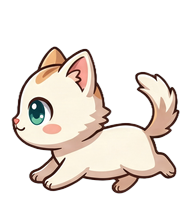
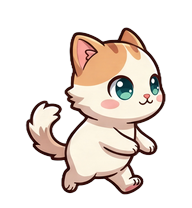
fix(anime-cat-pet): 跑步動畫重做 —— 由「縮細 12%」改成同企立完全同大
新嘅 check_atlas.py 由圖集反推每行 cap，揪出貓貓 run-right / run-left
係 0.89 / 0.88 —— 即係跑步嘅貓比企立嘅貓細 11–12%，而官方 validator
一直報 ok:true / 0 warnings（親眼睇 preview 確認：跑步貓嘅頭明顯細咗）。

三次嘗試：
1. 收尾巴 → 仍然闊（壓低身體嗰兩格 w/h 1.19–1.21），cap 0.89
2. 加「最低位都唔好拉開」 → cap 0.94，仍然唔夠
3. 改用直立跳躍式（head 喺 hip 正上方、前後爪都收起）→ w/h 0.84–0.86，
   cap 1.00，10 行全部 h=168-168

驗證
- 官方 validator：ok:true / 1536x2288 / 73 frames / warnings []
- check_atlas：OK（版面、cell map、邊緣、行高、gaze 次序全對）
- from-frames round-trip：diff = 0
- char.json / prompts.json 已同步；舊 request 檔標記為 superseded

diff --git a/anime-cat-pet/README.md b/anime-cat-pet/README.md
@@ -1,6 +1,6 @@
 # 奶黃貓貓 Neko
 
-`anime-cat-pet` · v2 · 73 格 · 2.52 MiB
+`anime-cat-pet` · v2 · 73 格 · 2.50 MiB
 
 一隻原創 chibi 動漫風奶黃貓貓：奶白毛色、左耳同頭頂有蜜桃色虎斑、綠松石色大眼、粉色三角鼻、圓圓腮紅、w 形小嘴，暖深棕描邊，平面 cel-shading 動漫吉祥物風格。
 
@@ -14,17 +14,23 @@
 | `frames/` | 73 張單格 192 × 208 PNG |
 | `refs/` | 角色設定原圖 |
 
-## 重點：尾巴剪影
+## 重點：跑步嘅剪影（改咗兩次）
 
-第一版跑步 sheet 嘅尾巴向後飄，令角色寬高比到 1.36–1.45，**超出 192 px 格仔**。組裝器為咗塞得落，會將成行縮細 —— 貓貓喺跑步動畫入面就會突然比其它行細。
+**第一版**：尾巴向後飄，角色寬高比到 1.36–1.45，超出 192 px 格仔。組裝器為咗塞得落，會將成行縮細 —— 貓貓喺跑步動畫入面就會突然比其它行細。
 
-修正方法係喺 prompt 度直接規定剪影：
+**第二版**：尾巴收起咗，但「壓低身體」嗰兩格仍然闊（w/h 1.19–1.21），成行依然要縮 11%。
 
-> "the fluffy tail is curled UP over the back in a compact curve close to the
-> body, never stretched out behind. The whole cat stays compact: the total
-> width of the cat is only slightly wider than the cat is tall."
+**最終版**：改用**直立跳躍式**（head 喺 hip 正上方、前爪收喺胸前、後爪收喺 hip 下），w/h 跌到 0.84–0.86：
 
-重生成之後 `cap=1.00`，全行冇被縮。
+> "the cat bounds forward in a playful UPRIGHT bounding prance. Its chest and head are
+> held HIGH, its back is nearly vertical, and the head sits directly above the hips,
+> so the body reads as a tall compact shape rather than a long horizontal one …
+> The front paws reach down and forward under the chest and never stretch out in
+> front of the face; the hind paws tuck under the hips and never stretch out behind."
+
+結果：**10 行全部 `cap=1.00`、每格高度都係 168–168**，跑步動畫同企立完全同大。
+
+💡 **守門**：`scripts/check_atlas.py` 會由圖集反推每行嘅 cap（完成品每行中位高度 = `target_h × cap`），所以呢類問題唔會再靜靜漏過。
 
 ## 重建
 

diff --git a/README.md b/README.md
@@ -10,7 +10,7 @@
 
 | Pet | id | 圖集 | 大小 | Validator |
 |---|---|---|---|---|
-| ![奶黃貓貓](anime-cat-pet/atlas-preview.png) | `anime-cat-pet` | 73 格 | 2.52 MiB | `ok: true` · 0 warnings |
+| ![奶黃貓貓](anime-cat-pet/atlas-preview.png) | `anime-cat-pet` | 73 格 | 2.50 MiB | `ok: true` · 0 warnings |
 | ![零波短髮](eva-rei-pet/atlas-preview.png) | `eva-rei-pet` | 73 格 | 2.38 MiB | `ok: true` · 0 warnings |
 | ![零波長髮](eva-rei-long-pet/atlas-preview.png) | `eva-rei-long-pet` | 73 格 | 2.55 MiB | `ok: true` · 0 warnings |
 
